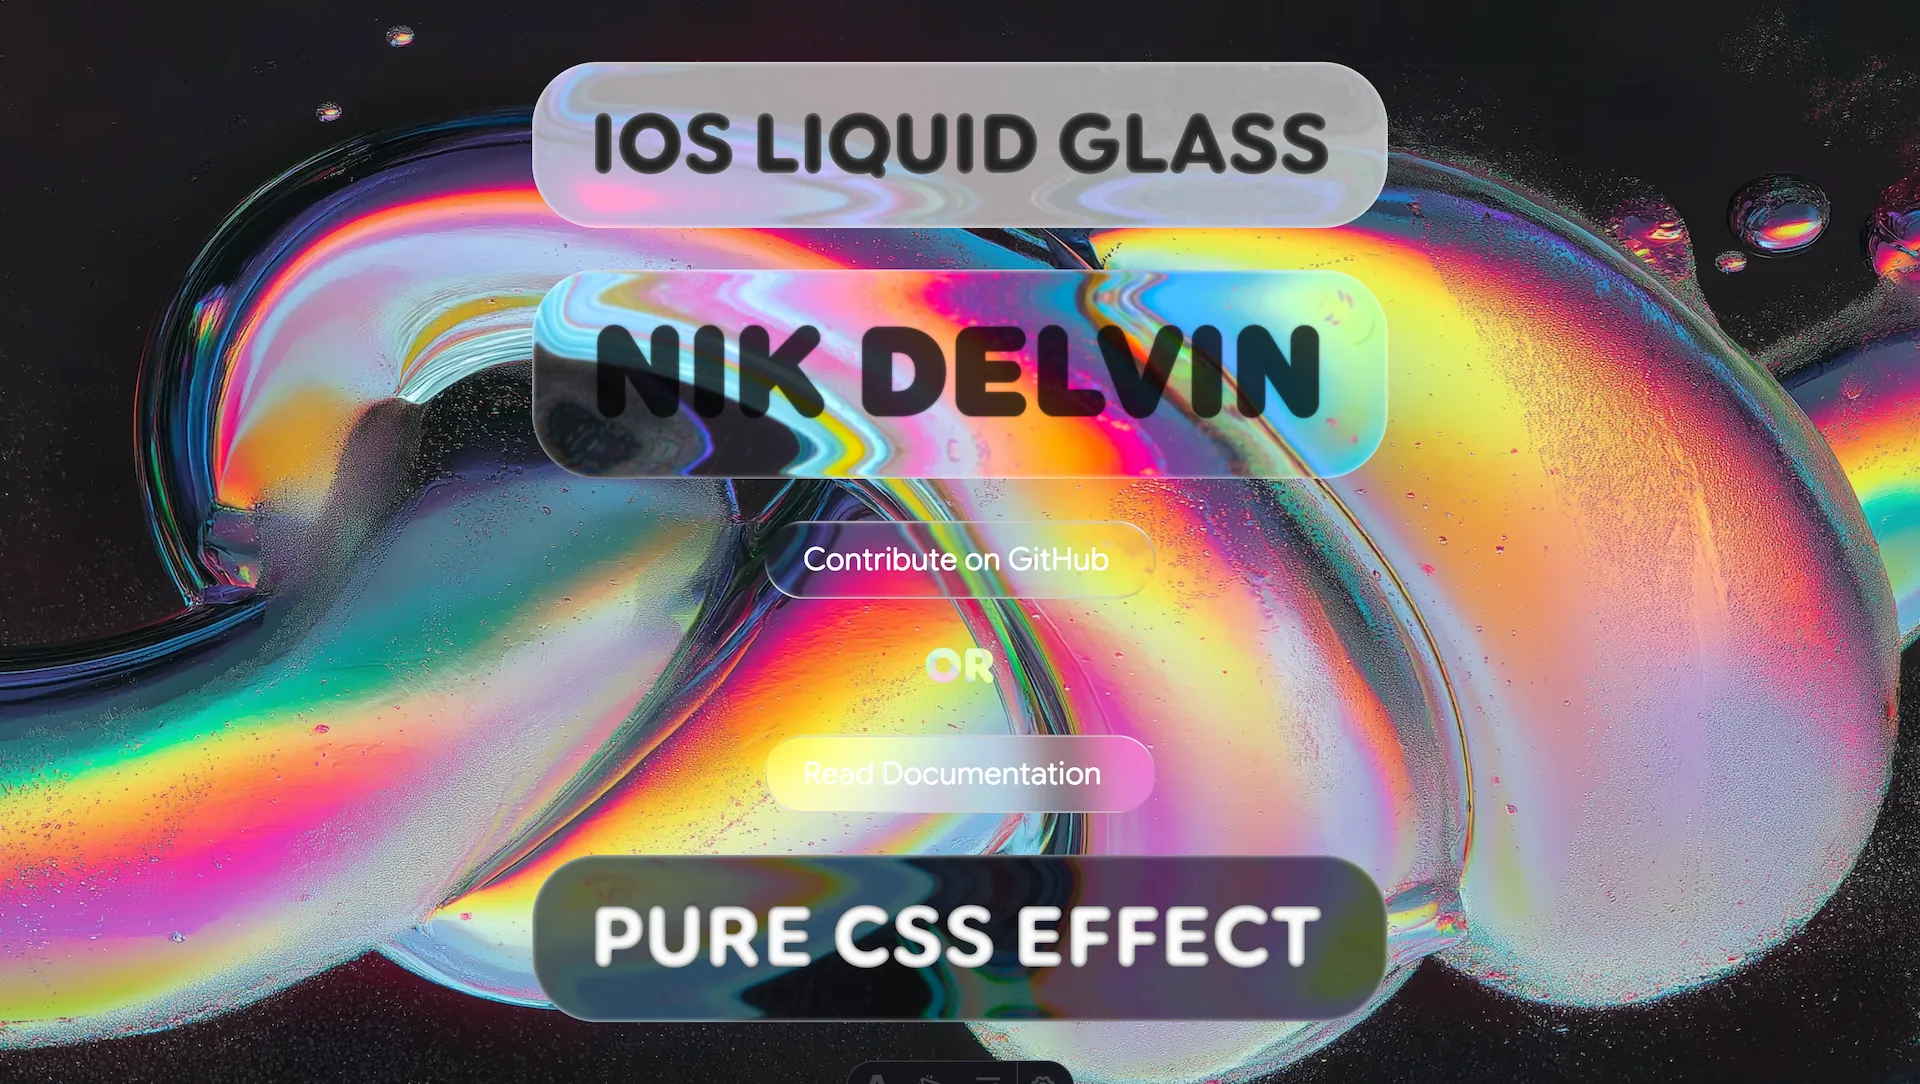
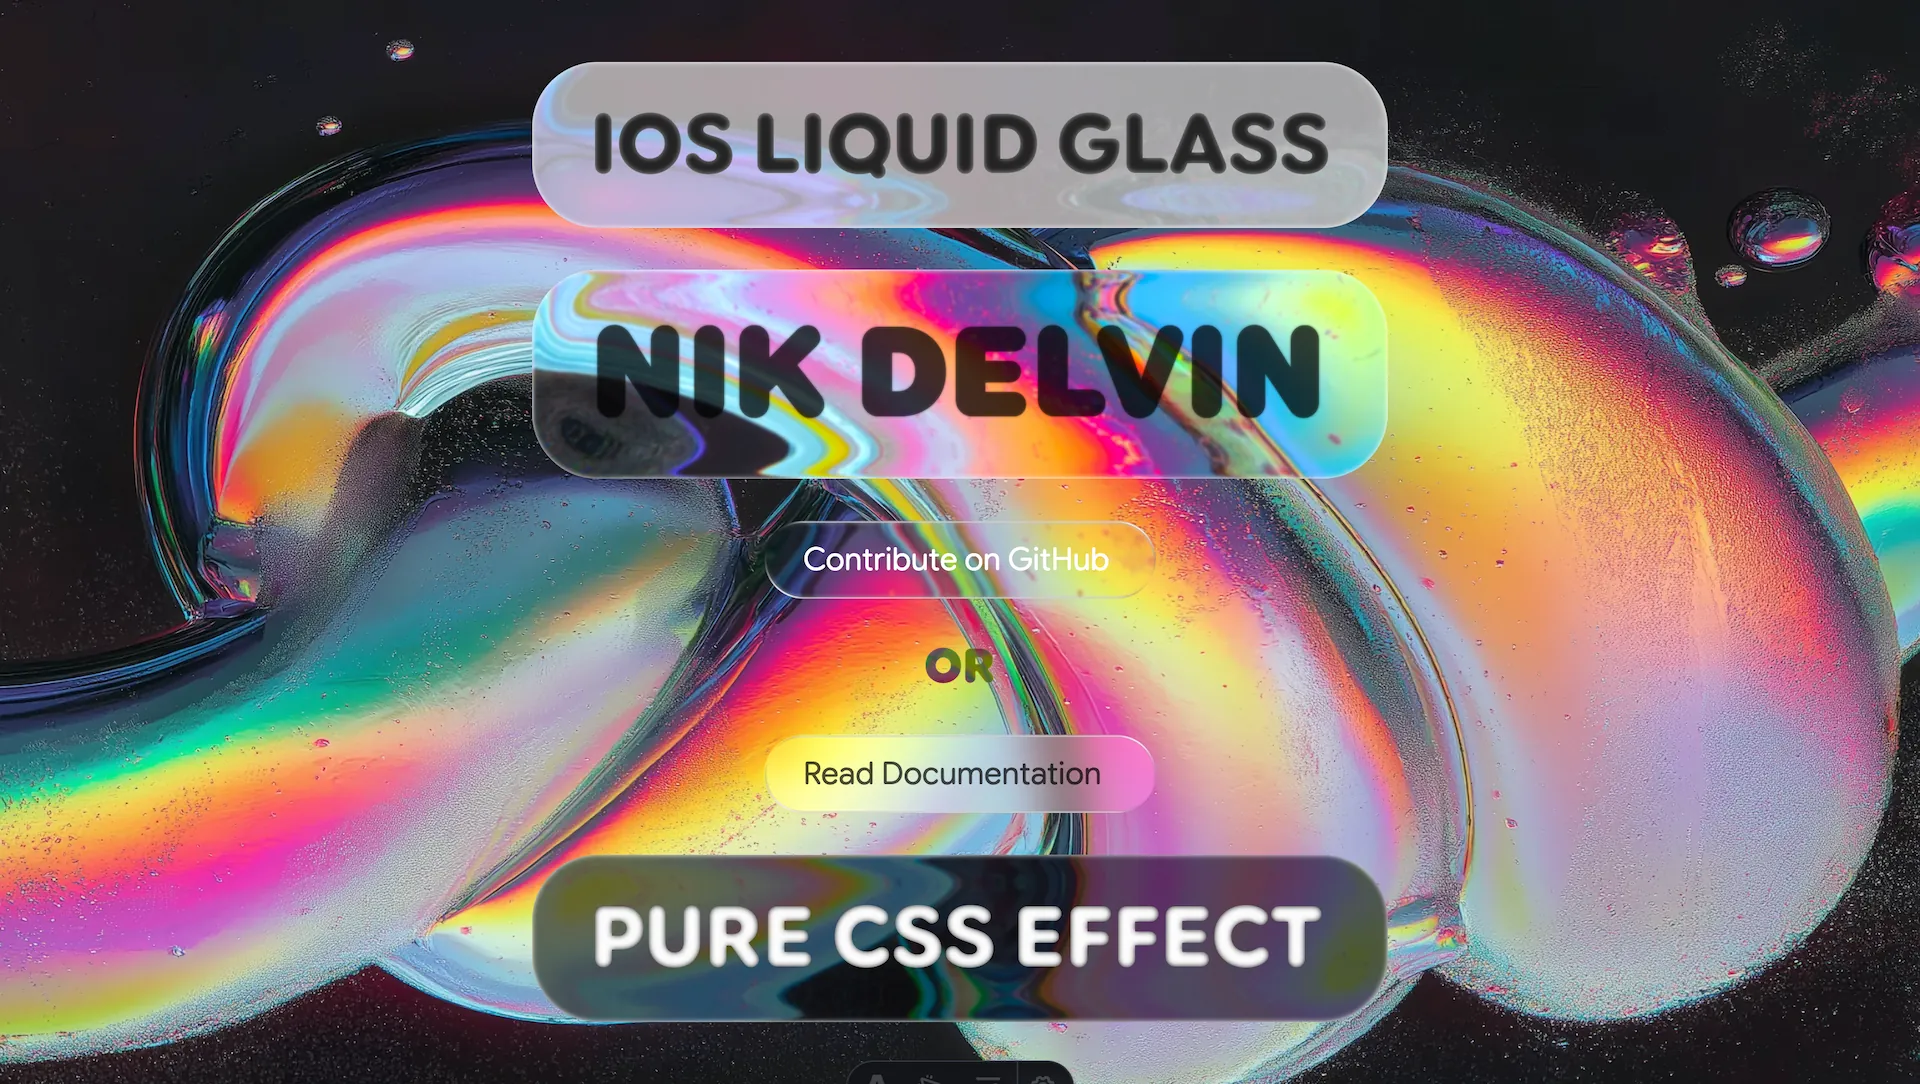
First Deploy

diff --git a/src/styles/global.css b/src/styles/global.css
@@ -97,7 +97,7 @@
 }
 .glass-text.glass-none {
     color: rgba(255, 255, 255, 0);
-    text-shadow: 0 0 1px rgba(255, 255, 255, 0.6);
+    text-shadow: 0 0 1px rgba(0, 0, 0, 0.5);
 }
 .glass-text-container.glass-transparent {
     filter: brightness(2) saturate(2) contrast(2) drop-shadow(0px 0px 1px #fff) invert(1);

diff --git a/README.md b/README.md
@@ -2,7 +2,7 @@
 
 **iOS 26 Liquid Glass effect recreated for the web using pure CSS SVG filters.**
 
-[![Demo](https://img.shields.io/badge/Live-Demo-blue?style=for-the-badge)](https://liquid-glass.nikdelvin.dev)
+[![Demo](https://img.shields.io/badge/Live-Demo-blue?style=for-the-badge)](https://liquid-glass.web.app)
 [![GitHub](https://img.shields.io/badge/GitHub-Repository-black?style=for-the-badge&logo=github)](https://github.com/nikdelvin/liquid-glass)
 
 ![Liquid Glass Preview](https://raw.githubusercontent.com/nikdelvin/liquid-glass/main/preview.webp)
